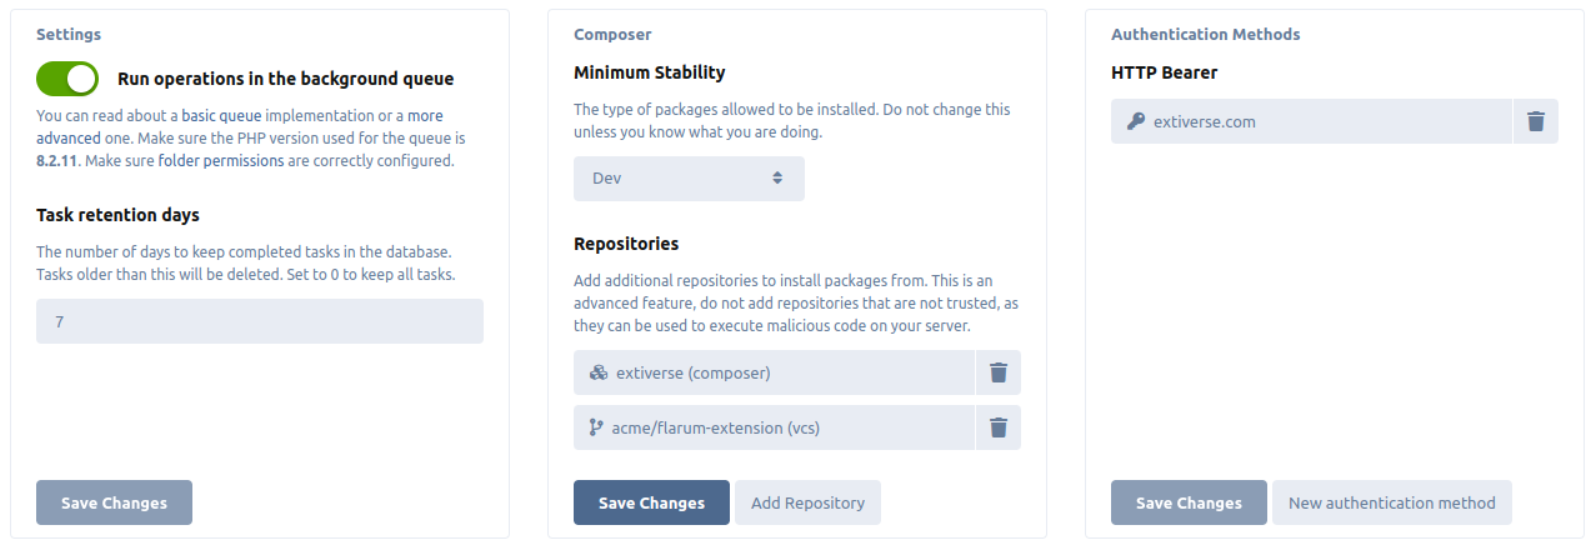
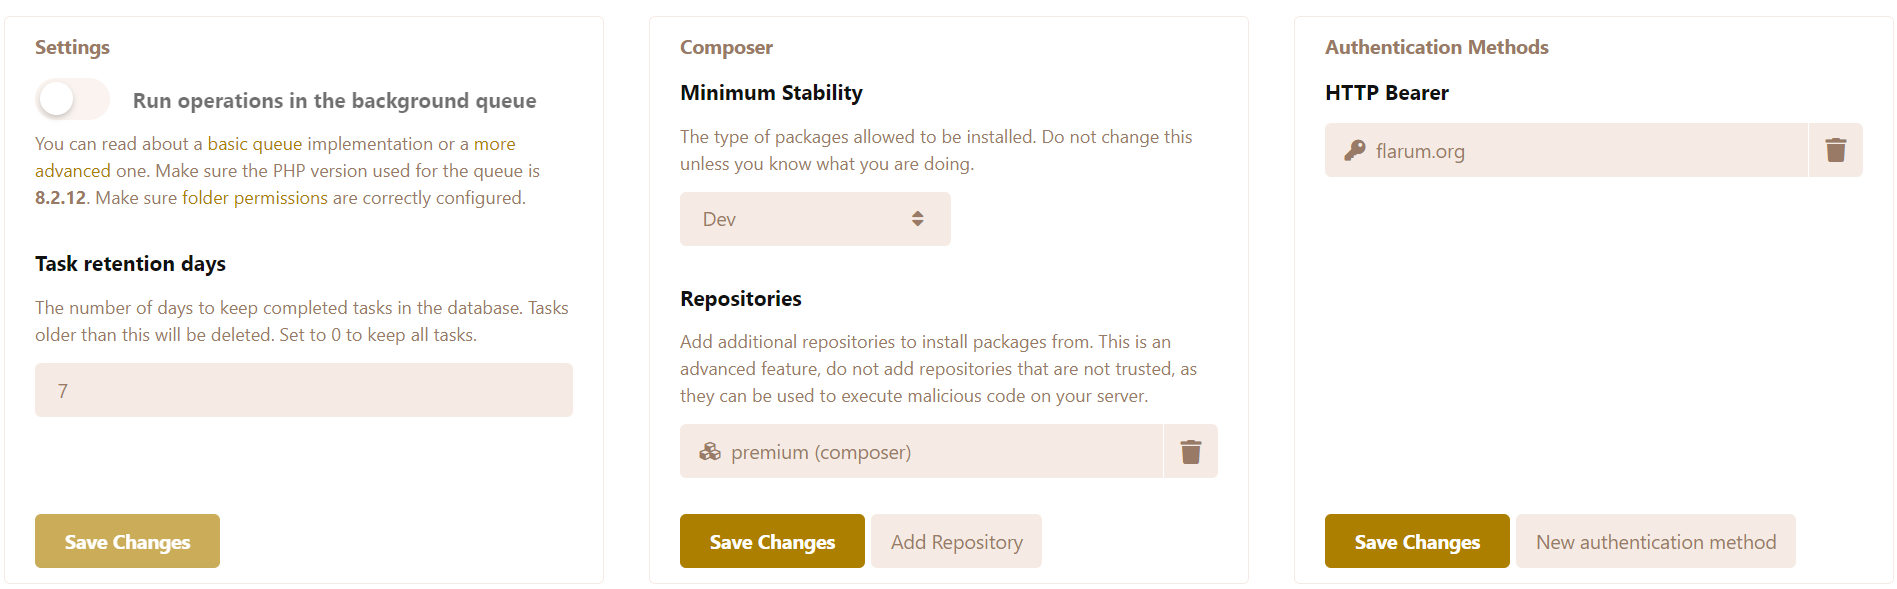
fix: moved from extiverse to flarum.org, typo fixed

diff --git a/docs/extensions.md b/docs/extensions.md
@@ -14,7 +14,7 @@ The extension manager is an extension that comes bundled with Flarum when instal
 If you do not have the extension manager installed and you wish to install it, you can do so by running the following command in your Flarum directory:
 
 ```bash
-composer require flarum/extension-manager:*
+composer require flarum/extension-manager:"*"
 ```
 
 :::warning
@@ -96,16 +96,16 @@ If you want to add a repository from a VCS (e.g. GitHub, GitLab, BitBucket, etc)
 
 ### Adding a composer repository
 
-Extiverse provides access to premium extensions. It is a good example of a composer repository. You would specify the URL as `https://extiverse.com/composer/` and the name as `extiverse`. You would also need to enter an authentication method through the **New authentication method** button. The token can be generated from your Extiverse account's subscriptions page.
+Extiverse provides access to premium extensions. It is a good example of a composer repository. You would specify the URL as `https://flarum.org/composer/` and the name as `premium`. You would also need to enter an authentication method through the **New authentication method** button. The token can be generated from your Flarum account's [subscriptions](https://flarum.org/dashboard/subscriptions) page with the Instructions button.
 
 * Type: `HTTP Bearer`
-* Host: `extiverse.com`
+* Host: `flarum.org`
 
 ![Configure repositories](/en/img/config-repositories.png)
 
 :::info
 
-The configured repositories and auth methods will be active for both the command line and the admin dashboard. If yu configure them from the command line however, you must not include the flag `--global`.
+The configured repositories and auth methods will be active for both the command line and the admin dashboard. If you configure them from the command line however, you must not include the flag `--global`.
 
 :::
 
